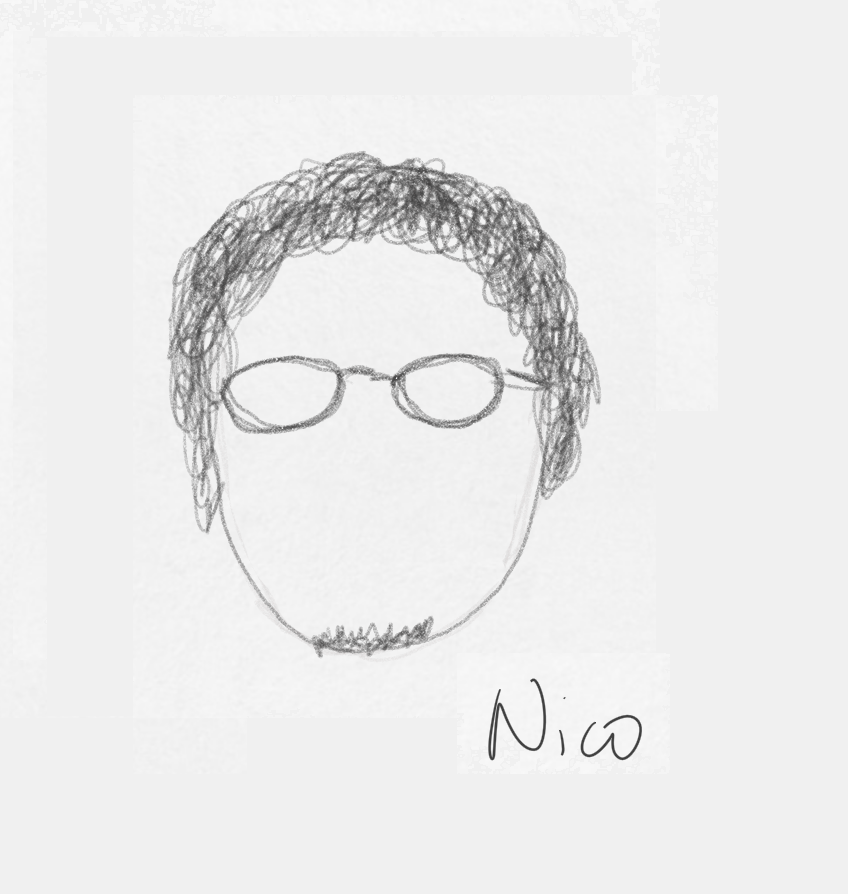
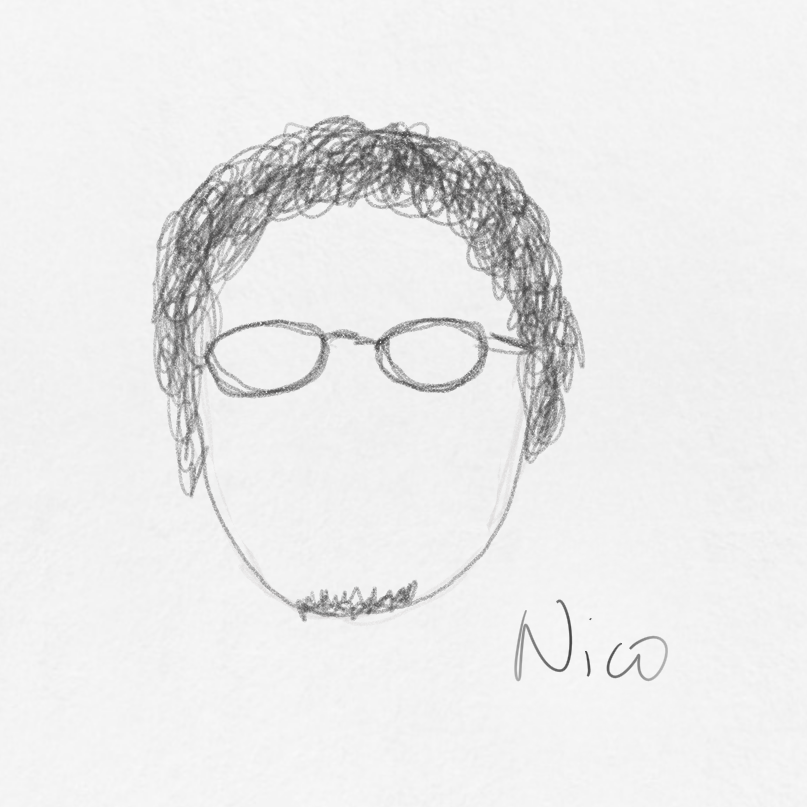
Assorted changes
Rearranged contact section
Cleaned up animations
Updated portrait image

Changed region(s): [[0.1859, 0.1239, 0.7435, 0.7745], [0.5576, 0.7435, 0.8364, 0.8674], [0.3098, 0.3717, 0.3717, 0.4027]]

diff --git a/index.html b/index.html
@@ -92,7 +92,7 @@
         <div class="divider"></div>
         <div class="content">
             <h2 class="subhead">Things I've Dabbled In</h2>
-            <div data-aos="fade-up" class="section">
+            <div data-aos="fade-up" data-aos-duration="600" class="section">
                 <ul class="list">
                   <li>Cool tech and tinkering with it
                       <ul>
@@ -120,7 +120,7 @@
             </div>
             <div class="spacer"></div>
             <h2 class="subhead">Things That Inspire Me</h2>
-            <div data-aos="fade-up" class="section">
+            <div data-aos="fade-up" data-aos-duration="600" class="section">
                 <ul class="list">
                   <li>Stories behind great ideas</li>
                   <li>Elegant solutions to awkward problems</li>
@@ -129,7 +129,7 @@
             </div>
             <div class="spacer"></div>
             <h2 class="subhead">Things I'm Enjoying Lately</h2>
-            <div data-aos="fade-up" class="thing-box">
+            <div data-aos="fade-up" data-aos-duration="600" class="thing-box">
                 <div class="thing">
                     <a href="https://www.tested.com/">
                         <img class="thing-pic" src="things/tested-logo.png">
@@ -194,15 +194,15 @@
             <div class="divider"></div>
         </div>
 
-        <div data-aos="fade" class="content" id="contacts">
+        <div class="content" id="contacts">
             <h1 class="header">My Work</h1>
-            <div class="link-list">
+            <div data-aos="fade-up" data-aos-duration="600" class="link-list">
                 <a href="https://github.com/salvadornico"><img src="icons/github.png" class="link" alt="GitHub"></a>
                 <a href="http://codepen.io/salvadornico"><img src="icons/codepen.png" class="link" alt="CodePen"></a>
                 <a href="https://vimeo.com/roller4life"><img src="icons/vimeo.png" class="link" alt="Vimeo"></a>
             </div>
             <h1 class="header">Get In Touch</h1>
-            <div class="link-list">
+            <div data-aos="fade-up" data-aos-duration="600" class="link-list">
                 <a href="mailto:salvador.nico@gmail.com"><img src="icons/email.png" class="link" alt="Email"></a>
                 <a href="https://www.linkedin.com/in/salvadornico"><img src="icons/linkedin.png" class="link" alt="LinkedIn"></a>
                 <a href="https://plus.google.com/u/0/+NicoSalvador"><img src="icons/google.png" class="link" alt="Google+"></a>
@@ -210,8 +210,8 @@
                 <a href="https://www.facebook.com/salvador.nico"><img src="icons/fb.png" class="link" alt="Facebook"></a>
                 <a href="https://twitter.com/nicoLorenzooo"><img src="icons/twitter.png" class="link" alt="Twitter"></a>
                 <a href="https://www.pinterest.com/roller4life/"><img src="icons/pinterest.png" class="link" alt="Pinterest"></a>
-                <p class="section" style="padding-top:24px"><a href="Nico_Salvador-CV2017.pdf">Resum&#233;</a></p>
             </div>
+            <p class="section" style="padding-top:24px"><a href="Nico_Salvador-CV2017.pdf">Resum&#233;</a></p>
             <div class="divider"></div>
             <p class="section">
                 &copy; 2017 Nico Salvador
